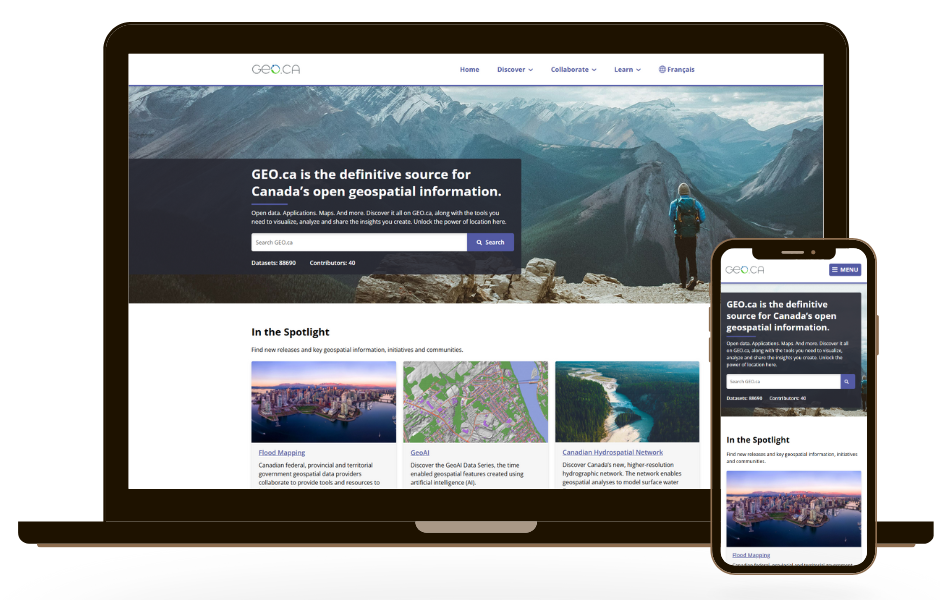
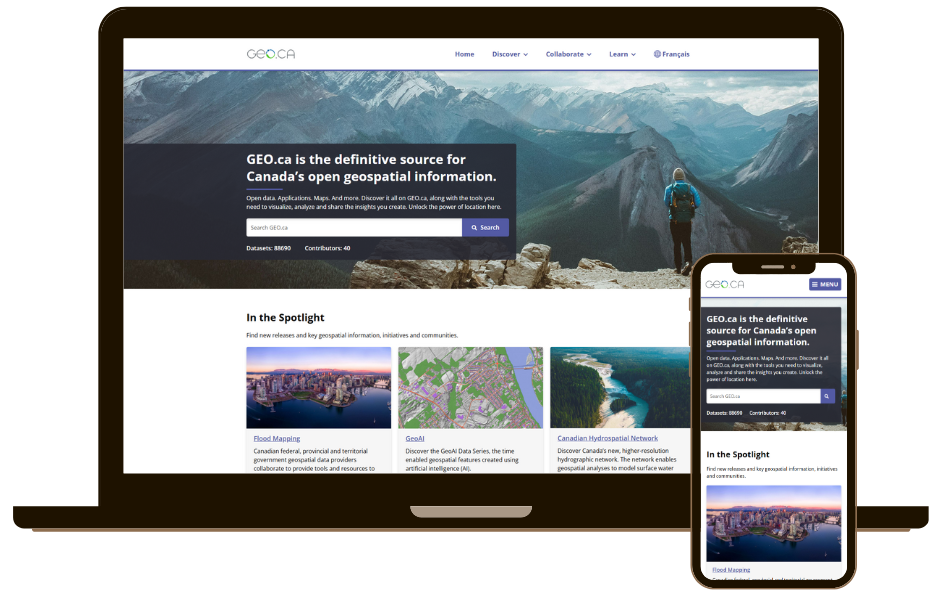
replaces mockup images, removes pink text

diff --git a/projects.css b/projects.css
@@ -74,7 +74,7 @@ body {
 
     h2 {
       font-weight: lighter;
-      color: #E7759B;
+      color: var(--text-color);
       font-size: 2.75em;
     }
   
@@ -540,16 +540,9 @@ html.light-mode {
   .projectH1 {
     font-size: 3.25rem;
     font-weight: lighter;
-    color: #e7759b;
+    color: var(--text-color);
     margin-bottom: 1rem;
     padding-top: 2.5rem;
-  }
-  
-  .projectH2 {
-    font-size: 2rem;
-    margin-top: 0rem;
-    margin-bottom: 0rem;
-    color: var(--text-color);
   }
   
   /* Paragraphs */
@@ -562,7 +555,7 @@ html.light-mode {
   /* Highlighted text */
   .highlight {
     font-weight: 600;
-    color: #E7759B;
+    color: var(--text-color);
   }
   
   /* Lists */
@@ -589,7 +582,7 @@ html.light-mode {
   
   .project-navigation a {
     text-decoration: none;
-    color: #e7759b;
+    color: var(--text-color);
     font-weight: 600;
     padding: 0.5rem 1rem;
     margin-left: 6.25rem;
@@ -605,7 +598,6 @@ html.light-mode {
   
   .project-navigation a:hover {
     background-color: #e7759b;
-    color: var(--bg-color);
   }
 
   /* /////////////////////////////////////////// */
@@ -734,7 +726,6 @@ html.light-mode {
   ul.myMenu {
   padding: 1.5625rem 1.5625rem 0rem 1.5625rem;
   }
-
 
   ul.myMenu li a:active {
   color: #E7759B;

diff --git a/atlas.html b/atlas.html
@@ -63,7 +63,7 @@
                 <h1 class="projectH1">The Atlas of Canada Website Redesign</h1>
                 <h3><em>Government of Canada - Natural Resources Canada</em></h3>
                 <p><span class="highlight">Timeline:</span> 2022 - 2025<br>
-                    <span class="highlight">Role:</span> Graphic Designer, UX Consultant, and Communications Co-lead<br>
+                    <span class="highlight">Role:</span> Graphic Designer, Web/UX Designer, and Communications Co-lead<br>
                     <span class="highlight">Tools:</span> Illustrator · Photoshop · XD · RedMine · M365 · Trello</p>
                 <h2 class="projectH2">Overview</h2>
                 <p>Originally published as print editions starting in 1906, the Atlas of Canada launched its first digital presence with the 6th edition in 1999, followed by several website iterations leading up to the 2020s. As part of the latest redesign team, I helped modernize its navigation, visual design, and content structure, continuing the Atlas's shift from print to digital while enhancing usability, accessibility, and preserving its historic identity.</p>

diff --git a/main.css b/main.css
@@ -66,7 +66,7 @@ h1 {
 
 h2 {
   font-weight: lighter;
-  color: #E7759B;
+  color: var(--text-color);
   font-size: 2.75em;
   text-align: center;
 }
@@ -661,7 +661,7 @@ body.light-mode #figma {
   position: absolute;
   top: 50%;
   background-color: var(--bg-color);
-  color: #e7759b;
+  color: (var(--text-color));
   font-weight: 600;
   padding: 0.5rem 1rem;
   margin-left: 6.25rem;
@@ -678,7 +678,6 @@ body.light-mode #figma {
 [data-anchor="portfolio"] .prev:hover,
 [data-anchor="portfolio"] .next:hover {
   background-color: #E7759B;
-  color: var(--bg-color);
 }
 
 /* Position left/right */
@@ -759,7 +758,7 @@ color: var(--text-color);
   border: 0.125rem solid #E7759B;
   text-align: center;
   font-size: 1em;
-  color: #E7759B;
+  color: var(--text-color);
   background-color: var(--bg-color);
   text-decoration: none;
   font-family: 'Segoe UI', sans-serif;

diff --git a/geo.html b/geo.html
@@ -64,7 +64,7 @@
               <h3><em>Government of Canada - Natural Resources Canada</em></h3>
               <p>
                 <span class="highlight">Timeline:</span> 2023 - 2025<br>
-                <span class="highlight">Role:</span> Graphic Designer, UX Consultant, and Communications Co-lead<br>
+                <span class="highlight">Role:</span> Graphic Designer, Web/UX Designer, and Communications Co-lead<br>
                 <span class="highlight">Tools:</span> Illustrator · Premiere Pro · XD · WordPress · GitHub · Slack · Trello
               </p>
               <h2 class="projectH2">Overview</h2>
